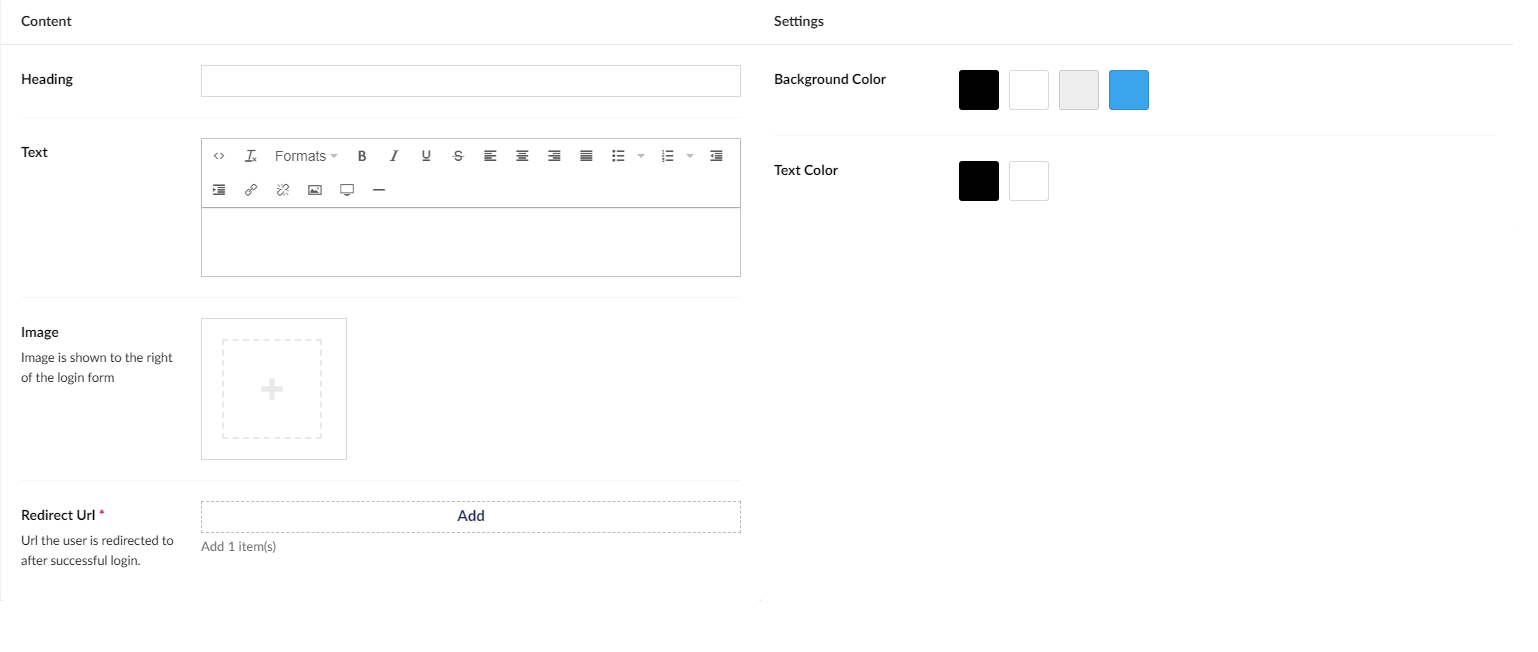
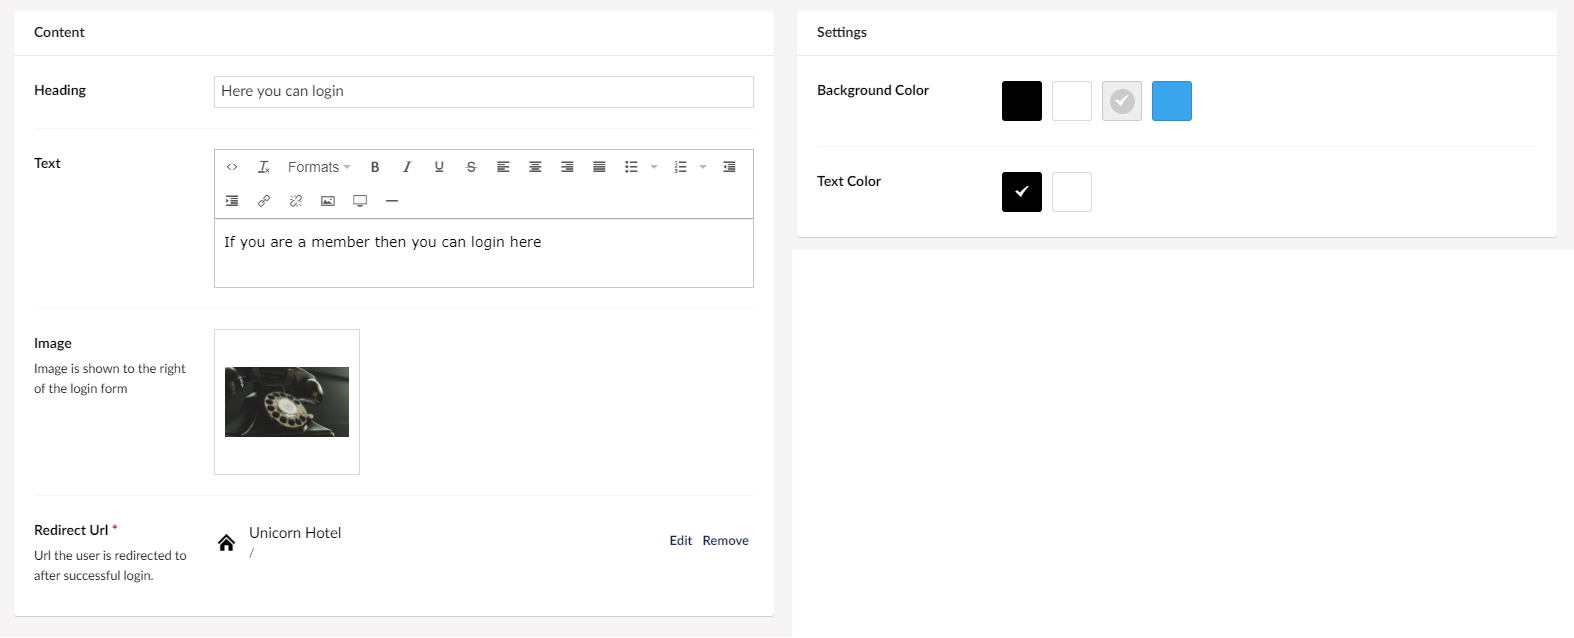
Updating the contents of the register and login article to 8.7

diff --git a/Umbraco-Uno/Widgets/Login-and-Register/index.md b/Umbraco-Uno/Widgets/Login-and-Register/index.md
@@ -1,23 +1,25 @@
----
-versionFrom: 8.0.0
----
-
 # Login and Register
 
-Umbraco Uno offers a couple of widgets to setup member registration and access. This articles presents an overview of the two widgets, Register and Login. To learn more about how to setup and restrict member access on an Umbraco Uno website, read the [Members](../../../../Manage-Users/Members) article.
+Umbraco Uno offers a couple of widgets to setup member registration and access. This article presents an overview of the two widgets, Register and Login. To learn more about how to set-up and restrict member access on an Umbraco Uno website, read the [Members](../../../../Manage-Users/Members) article.
+
+If you want to be able to have members on your page then setting up register and login widgets is your best option, the register widget will let you have a page where the visitors of your page can register for an account and with the login widget, you will have a page where they can login with the account they created on the register page.
 
 ## Register
-
-![Register widget icon](images/The-Register-Widget.png)
 
 This widget lets you create an element on your page, where people can register for an account on your website.
 They will register by filling out the fields, which are Name, Email, and Password, and finalizing by pressing the Register button. After doing that they will get a message saying that their sign up was successful.
 
-In the backoffice you will be able to see your registerd members by clicking onto the Members tab. Here you can edit members and view how many members you have.
+In the backoffice, you will be able to see your registered members by clicking onto the Members tab. Here you can edit members and view how many members you have.
 
 ### Sample
 
-![Example of a Register form on the frontend](images/Regiseter-element.png)
+![Example of a Register form on the frontend](images/Register-Front.png)
+
+## Confifuration Options
+
+You will have a couple of options to make the registration window look how you want it to look.
+
+![Register Backoffice](images/Register-Final.png)
 
 ### Content
 
@@ -32,19 +34,21 @@ In the backoffice you will be able to see your registerd members by clicking ont
 - Background Color
 - Text Color
 
-![Register Backoffice](images/Register-final.png)
-
 ## Login
 
-![Login widget icon](images/The-Login-Widget.png)
+The Login widget allows the member that was created, using The Register widget to login to their account.
 
-The Login Widget allows the member that was created, using The Register Widget to login to their account.
-
-It is worth to note that The Login Widget, also works for members that were created by the admins in the backoffice.
+It is worth noting that The Login widget, also works for members that were created by the admins in the backoffice.
 
 ### Sample
 
-![Frontend example of a Login form](images/login-prompt.png)
+![Frontend example of a Login form](images/Login-Front.png)
+
+## Configuration Options
+
+You will have some options to choose from when you set up your login widget, such as the background and text color.
+
+![Login Backoffice](images/Login-Final.png)
 
 ### Content
 
@@ -57,8 +61,6 @@ It is worth to note that The Login Widget, also works for members that were crea
 
 - Background Color
 - Text Color
-
-![Login Backoffice](images/Login-final.png)
 
 :::note
 When the Login widget is added to a page, whenever that page is loaded it will default to show the login form.
